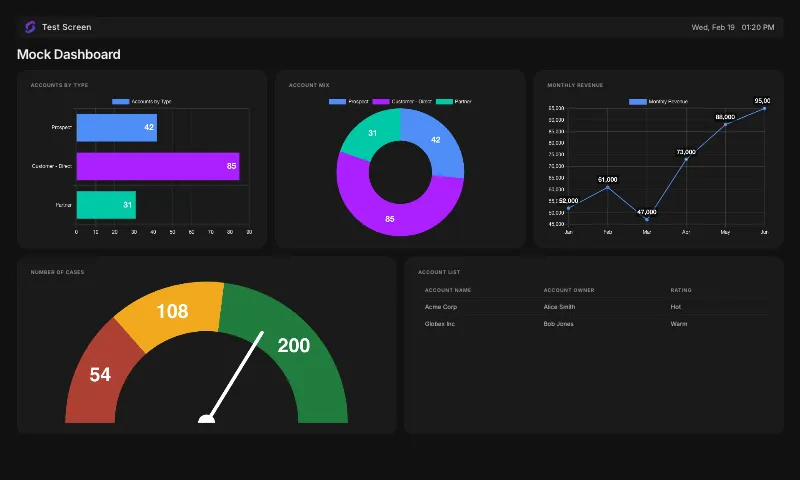
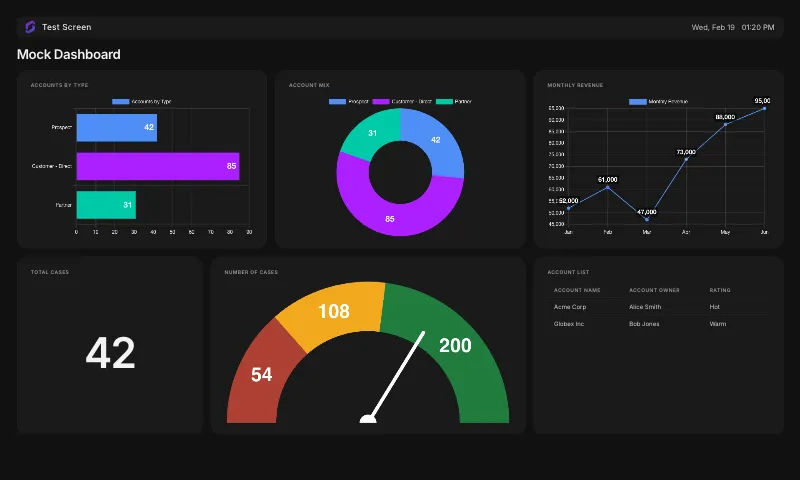
fix: address Copilot review comments
- Simplify renderMetric to read directly from T!T factMap key
- Guard drawGaugeNeedle against NaN/Infinity pct values
- Guard drawGaugeBreakLabels against zero/negative range
- Add metric component to screenshot test fixture

diff --git a/e2e/screenshots.spec.ts b/e2e/screenshots.spec.ts
@@ -88,6 +88,24 @@ const MOCK_DASHBOARD_RESPONSE = {
       status: { componentDataStatus: 'DATA', refreshStatus: 'IDLE' },
     },
     {
+      componentId: 'comp-metric',
+      reportResult: {
+        factMap: {
+          'T!T': { aggregates: [{ label: '42', value: 42 }] },
+        },
+        groupingsDown: { groupings: [] },
+        groupingsAcross: { groupings: [] },
+        reportExtendedMetadata: {
+          aggregateColumnInfo: {
+            RowCount: { dataType: 'int', label: 'Record Count' },
+          },
+          detailColumnInfo: {},
+        },
+        reportMetadata: { aggregates: ['RowCount'], detailColumns: [] },
+      },
+      status: { componentDataStatus: 'DATA', refreshStatus: 'IDLE' },
+    },
+    {
       componentId: 'comp-gauge',
       reportResult: {
         factMap: {
@@ -194,8 +212,22 @@ const MOCK_DASHBOARD_RESPONSE = {
         },
       },
       {
-        id: 'comp-gauge',
+        id: 'comp-metric',
         componentData: 3,
+        header: 'Total Cases',
+        title: null,
+        reportId: '00O000000000005',
+        type: 'Report',
+        properties: {
+          visualizationType: 'Metric',
+          visualizationProperties: {},
+          aggregates: [{ name: 'RowCount' }],
+          groupings: null,
+        },
+      },
+      {
+        id: 'comp-gauge',
+        componentData: 4,
         header: 'Number of Cases',
         title: null,
         reportId: '00O000000000004',
@@ -223,7 +255,7 @@ const MOCK_DASHBOARD_RESPONSE = {
       },
       {
         id: 'comp-table',
-        componentData: 4,
+        componentData: 5,
         header: 'Account List',
         title: null,
         reportId: '00O000000000002',
@@ -248,8 +280,9 @@ const MOCK_DASHBOARD_RESPONSE = {
         { column: 0, row: 0, colspan: 4, rowspan: 8 },
         { column: 4, row: 0, colspan: 4, rowspan: 8 },
         { column: 8, row: 0, colspan: 4, rowspan: 8 },
-        { column: 0, row: 8, colspan: 6, rowspan: 8 },
-        { column: 6, row: 8, colspan: 6, rowspan: 8 },
+        { column: 0, row: 8, colspan: 3, rowspan: 8 },
+        { column: 3, row: 8, colspan: 5, rowspan: 8 },
+        { column: 8, row: 8, colspan: 4, rowspan: 8 },
       ],
       numColumns: 12,
       rowHeight: 36,

diff --git a/src/render/gauge.ts b/src/render/gauge.ts
@@ -20,7 +20,8 @@ function drawGaugeNeedle(
   outerR: number,
   pct: number
 ): void {
-  const angle = Math.PI + pct * Math.PI
+  const safePct = Number.isFinite(pct) ? Math.max(0, Math.min(1, pct)) : 0
+  const angle = Math.PI + safePct * Math.PI
   ctx.save()
   ctx.beginPath()
   ctx.moveTo(cx, cy)
@@ -49,9 +50,11 @@ function drawGaugeBreakLabels(
   max: number,
   breaks: { lowerBound: number; upperBound: number }[]
 ): void {
+  const range = max - min
+  if (range <= 0) return
+
   const labelR = (outerR + innerR) / 2
   const fontSize = Math.max(13, Math.floor(outerR * 0.14))
-  const range = max - min
   ctx.save()
   ctx.font = `bold ${fontSize}px sans-serif`
   ctx.textAlign = 'center'

diff --git a/src/render/index.ts b/src/render/index.ts
@@ -111,12 +111,9 @@ function renderStat(
 function renderMetric(
   container: HTMLElement,
   reportResult: ReportResult,
-  meta: DashboardMetadataComponent
+  _meta: DashboardMetadataComponent
 ): void {
-  const aggregate = meta.properties.aggregates?.[0]
-  const aggregateName = aggregate?.name ?? ''
-  const factKey = aggregateName ? `${aggregateName}!T` : 'T!T'
-  const entry = reportResult.factMap?.[factKey] ?? reportResult.factMap?.['T!T']
+  const entry = reportResult.factMap?.['T!T']
 
   if (!entry) {
     renderEmpty(container)
